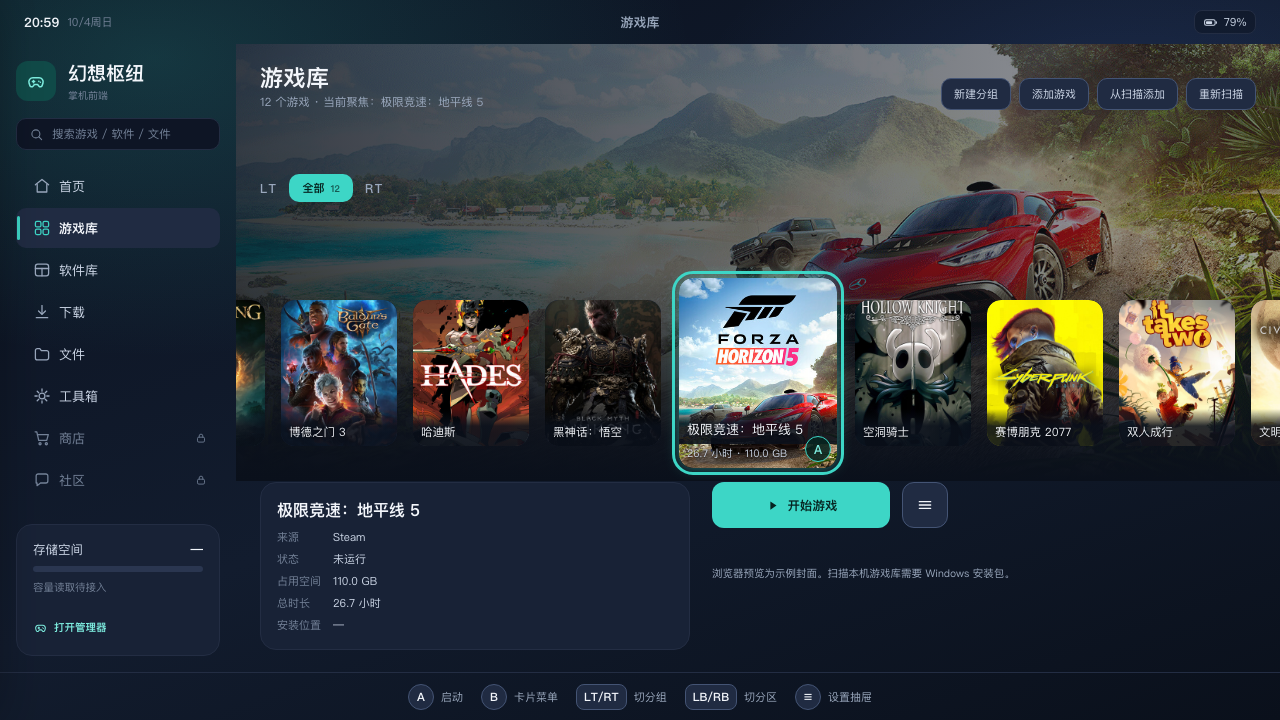
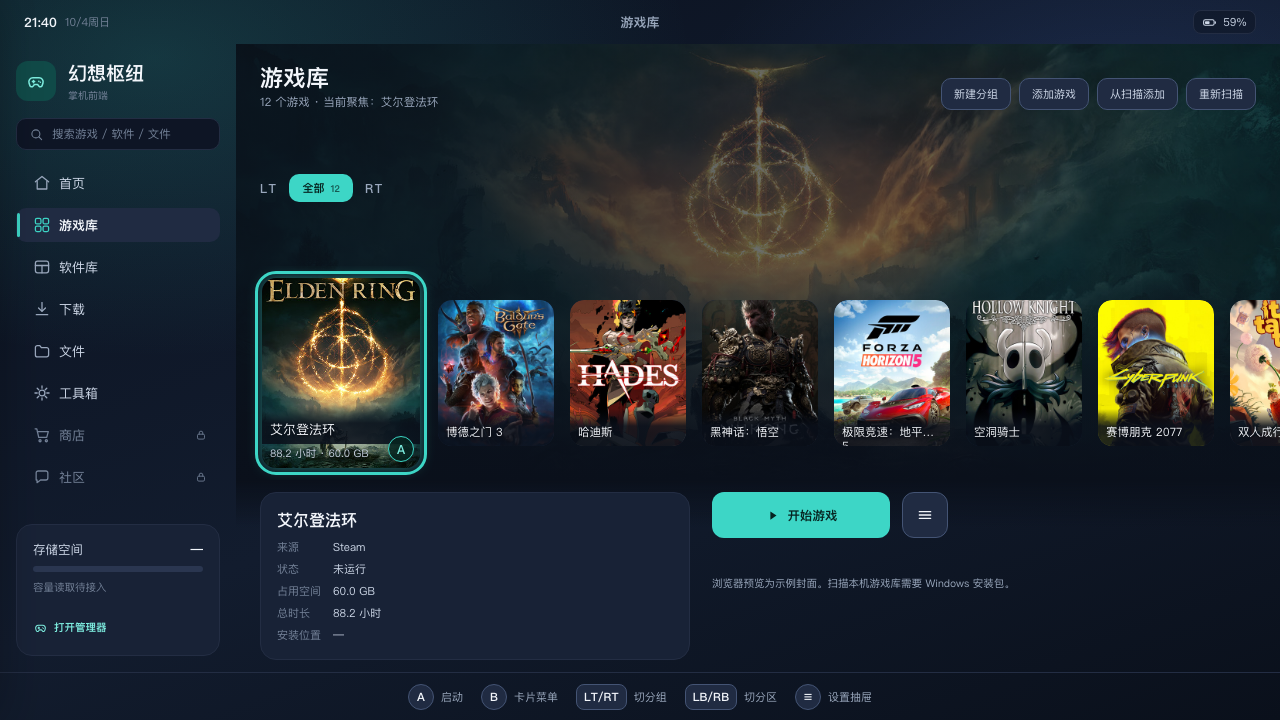
界面大改 M1 修正二：侧栏行距 / 卡片条与面板的距离 / hero 底边（用户第二组截图反馈）
三条都是纯 CSS（Rust 与逻辑一行没动）。用户的窗口是 1493×1225（--dp=1.166），
画板那套固定 dp 坐标只在 1280×720 下等价 —— 三条里两条是「超出画布才看得见」。

图1「没有距离」= 卡片条贴着信息面板：聚焦卡的焦点环画在盒外 7dp，环底落在 475dp，
离画板的面板顶 482dp 只剩 7dp。.k1-foot 的 margin-top 2 → 12dp（面板顶 494dp），
环下留 19dp；720dp 的下限量过：面板高 168dp → 底边 662，提示条 672。

图2「紧紧贴在一起甚至产生了覆盖」= 侧栏行距放不下焦点环：画板的「行高 40、步进 42」
里那 2dp 装不下 7dp 的环，当前页那一行 + 焦点行同时高亮时连成一坨、环还压到下一行的
背景上（用户截的就是 游戏库 / 软件库）。直接把行距加到 8dp 会让 720dp 下侧栏顶出滚动
（8 行只剩 344dp，40×8+8×7=376），所以从行高里让 6dp：--h-rail-row 40 → 34、
.rail-items 的 gap 2 → 8，步进仍是 42dp（--step-rail-row 没改），首行 166dp 与 8 行的
总预算不变。实测两行高亮之间隔 10px、3px 的环正落在中间（改前是 0px）。

图3「整个边没过渡」= hero 底边是 1px 硬边：压暗渐变最后一档是「不透明」的 bg-deep，
把 hero 底边钉死成 #0a101b，而背后那层 160deg 全局渐变只在 1280×720 画布上那一带刚好
同色；用户窗口里页面背景是 #121a2c，于是那一行 RGB 从 (10,16,27) 跳到 (18,28,45)。
在 hero 底下垫一层 .k1-page::after（436dp 起、高 48dp、bg-deep → transparent、不接指针、
层在三个 z-index:1 区块之下）把它化开；画布尺寸下这层与页面同色、看不见。
改后每行落差 ≤ 3，56px 之内平顺收完。

probe-ui.mjs：新增「侧栏当前行与下一行的间距 ≥ 焦点环 7dp」断言（用户图 2 的几何版本），
「信息面板顶边」期望值 482 → 494。自检图 m1-k1-games-1280/1920.png 按新样式重截。

本机验证：npx tsc --noEmit / npm run build / node scripts/audit-ui.mjs（阻塞 0）；
探针在 1493×1225（照用户窗口）+ 1280×720 + 1920×1080 三档全绿，另在 1493×1225 下
逐像素核对了 hero 底边那一段。真机（Windows 掌机）没装过。

diff --git a/src/styles/games.css b/src/styles/games.css
@@ -97,6 +97,26 @@
     );
 }
 
+/* hero 底边再垫一层 bg-deep → 透明的渐变，把那条硬边化开。
+   为什么需要：压暗渐变的最后一档是**不透明**的 bg-deep，等于把 hero 的底边钉死成 #0a101b；
+   而背后是页面自己的背景（global.css 的 160deg 全局渐变），只有在 1280×720 画布上那一带
+   才刚好也是 #0a101b。窗口比 720dp 高的时候（实测用户 1493×1225，--dp=1.166）页面背景
+   在那里是 #121a2c，hero 底边就成了一条 1px 的硬边（用户 2026-10-04 截图：「整个边没过渡」，
+   实测那一行 RGB 从 (10,16,27) 跳到 (18,28,45)）。
+   为什么不用 mask 罩 hero：mask 会把卡条下面那截背景也一起淡掉；这里只补底边这一条，
+   画布尺寸下这层和页面背景同色，等于看不见。z-index 0 + 放在 ::after：盖住 hero、
+   但在 .k1-head / .k1-strip-wrap / .k1-foot（z-index 1）下面。 */
+.k1-page::after {
+  content: "";
+  position: absolute;
+  left: 0;
+  right: 0;
+  top: calc(436 * var(--dp));
+  height: calc(48 * var(--dp));
+  background: linear-gradient(180deg, var(--bg-deep), transparent);
+  pointer-events: none;
+}
+
 
 /* ── 标题行：标题在左、工具栏在右，分组 chip 行在下面 ── */
 .k1-head {
@@ -398,13 +418,17 @@
 }
 
 /* ── 信息面板 + 操作区（画板 y=482 起，面板 430×138，操作区从 x=712 起） ── */
-/* 卡片条盒底 = 158+108+12+190+12 = 480，面板要落在 482，所以这里补 2。 */
+/* 卡片条盒底 = 158+108+12+190+12 = 480，画板的面板落在 482（补 2dp）。这里改成 494：
+   用户 2026-10-04 反馈「没有距离」—— 聚焦卡的焦点环画在盒子外面（4dp 外扩 + 3dp 描边 = 7dp），
+   环的底边落在 475，离画板的 482 只剩 7dp，看着像卡片条和面板贴在一起。往下让 12dp 之后
+   环下面是 19dp，才算有间隔。顶到 720dp 窗口的下限：面板高 168dp，494 + 168 = 662，
+   提示条从 672 起，还剩 10dp。 */
 .k1-foot {
   position: relative;
   z-index: 1;
   display: flex;
   align-items: flex-start;
-  margin-top: calc(2 * var(--dp));
+  margin-top: calc(12 * var(--dp));
   padding: 0 var(--safe);
 }
 

diff --git a/src/styles/tokens.css b/src/styles/tokens.css
@@ -68,7 +68,13 @@
   --h-hintbar: calc(48 * var(--dp));
   --rail-pad: calc(16 * var(--dp));
   --rail-row-w: calc(204 * var(--dp));
-  --h-rail-row: calc(40 * var(--dp));
+  /* 侧栏行高 34 + 行间距 8 = 步进 42（步进没动，和画板一致）。
+     为什么不照画板的「高 40 / 步进 42」：那 2dp 的行间距放不下焦点环（4dp 外扩 + 3dp 描边
+     = 7dp），相邻两行只要同时高亮（当前页那一行 + 焦点停的那一行）就连成一坨、环还压到
+     下一行的背景上（用户 2026-10-04 截图：「紧紧贴在一起甚至产生了覆盖」）。
+     为什么不直接加大行间距（40 + 8 = 步进 48）：720dp 高的窗口里侧栏只剩 344dp 给 8 行，
+     40×8 + 8×7 = 376dp 会顶出滚动。所以从行高里让出这 6dp，步进保持 42。 */
+  --h-rail-row: calc(34 * var(--dp));
   --step-rail-row: calc(42 * var(--dp));
   --h-rail-badge: calc(18 * var(--dp));
   --h-rail-search: calc(32 * var(--dp));

diff --git a/src/styles/shell.css b/src/styles/shell.css
@@ -160,7 +160,9 @@
 .rail-items {
   display: flex;
   flex-direction: column;
-  gap: calc(2 * var(--dp));
+  /* 行间距要容得下焦点环：4dp 外扩 + 3dp 描边 = 7dp，留 1dp 余量（见 tokens.css 的
+     --h-rail-row，行高从 40 让到 34 就是给这 8dp 让的位）。 */
+  gap: calc(8 * var(--dp));
   overflow-y: auto;
   min-height: 0;
   /* 焦点环画在行的盒子外面（4dp 间隔 + 3dp 环 = 7dp），而 overflow 容器按内边距盒裁切 ——

diff --git a/FRONTEND.md b/FRONTEND.md
@@ -20,7 +20,7 @@
 
 M0 定的顺序里的第一页：游戏库换成画板 K1 的横向卡片条。**样式全在新文件 `src/styles/games.css`**，`global.css` 里那套旧 `.library-*` 只被覆盖、没有被改（软件库还走旧网格，K2 才动它）。两条渲染路径靠 `LibraryShelf` 的 `layout="shelf" | "grid"` 分，卡片本身靠 `variant="shelf" | "picker"` 分 —— 选择对话框里还是旧卡片，别把它们一起改。
 
-- **几何**：一律 `calc(N * var(--dp))`，数字取自改造包 §3.1（标题 62 / chip 行 174 / 卡 116×146 在 300、聚焦 158×190 在 278 / 面板 430×138 在 482 / 操作区 x=712 / 主按钮 178×46 / 状态行 566）。画板原文写「放大 1.36×」但 146→190 只有 1.30，**以绝对尺寸为准**（`games.css` 里注明了）。K1 专用的两个时长（180ms 卡片放大、160ms hero 淡入）是 `games.css` 里的局部变量 `--k1-grow` / `--k1-fade`，**不是通用令牌，别挪进 `tokens.css`**；其中 `--k1-fade` 必须和 `LibraryShelf.tsx` 里 `useHeroCrossFade` 的 160ms 一致。
+- **几何**：一律 `calc(N * var(--dp))`，数字取自改造包 §3.1（标题 62 / chip 行 174 / 卡 116×146 在 300、聚焦 158×190 在 278 / 面板 430×138 在 482、面板顶后来按「M1 修正二」挪到 **494** / 操作区 x=712 / 主按钮 178×46 / 状态行 566）。画板原文写「放大 1.36×」但 146→190 只有 1.30，**以绝对尺寸为准**（`games.css` 里注明了）。K1 专用的两个时长（180ms 卡片放大、160ms hero 淡入）是 `games.css` 里的局部变量 `--k1-grow` / `--k1-fade`，**不是通用令牌，别挪进 `tokens.css`**；其中 `--k1-fade` 必须和 `LibraryShelf.tsx` 里 `useHeroCrossFade` 的 160ms 一致。
 - **两个布局坑**（以后加横向滚动页面会再遇到）：① CSS grid 里靠自动排列时，**DOM 顺序决定行**：K1 的分组行夹在标题和工具栏之间，工具栏会被顶到第三行（实测头部高出 50dp）→ 三块都写显式 `grid-area`；② `flex: 1` 的自动最小尺寸是 **min-content**，横向滚动内容的 min-content 会把内容区顶宽（实测 `tab-panel` 从 1044px 顶到 1662px，1280 窗口下整个壳横向溢出）→ `.tab-panel` 与 `.k1-page` / `.k1-strip-wrap` 都补 `min-width: 0`。
 - **焦点域**：卡片条 `data-focus-zone="library-grid"`、分组行 `library-groups`、工具栏 `library-tools`、K1 新增的操作区 `library-actions`。`LibraryShelf` 那个「自动把焦点安顿到第一张卡」的 effect 只认这三个旧域 —— 加新区块时**必须一起加进它的白名单**，否则操作区里的按钮会被反复抢走焦点（按不动）。上下跨域、左右域内走的规则没改。
 - **hero 的图从哪来由页面定**（`renderHero`），`LibraryShelf` 只负责换图时的交叉淡入与压暗；页面侧的回退链是 Steam 宽图 → 本地封面 → 渐变占位。宽图没有本地缓存（`cache_covers` 只存 600×900 竖封面），断网时自动退回封面。
@@ -39,9 +39,19 @@ M0 定的顺序里的第一页：游戏库换成画板 K1 的横向卡片条。*
 
 三条都改完了，**Rust 一行没动**；改完先在 1280×720 与 1920×1080 下重量过再重截的自检图。
 
-- **hero 的盒子比卡片条短**：画板把 hero 画到 y=440（396dp），而聚焦卡底边在 468 —— 卡片下缘探出大图 28dp；更要紧的是纵向压暗在 440 处只到 0.894 不透明，**亮色宽图会留一条齐刷刷的硬边**（像素实测：改前 y=436→437 一行亮度掉 41，改后那一带每行落差都在 3 以内）。现在 hero 铺到卡片条那个盒子的底边（480 → 437dp；多出的 1dp 是给 1080p 下 `--dp=1.5` 攒出来的亚像素零头，hero 从顶栏量起、不跟着漂），纵向压暗改成三段 `268→0 / 440→0.894 / 480→1`：图在卡片那一带就化进背景，盒底正好收干净。**卡片条的坐标一个没动**（卡条盒 266..480、聚焦卡 278..468、面板 482 仍是画板值），只有 hero 与压暗层变高。
+- **hero 的盒子比卡片条短**：画板把 hero 画到 y=440（396dp），而聚焦卡底边在 468 —— 卡片下缘探出大图 28dp；更要紧的是纵向压暗在 440 处只到 0.894 不透明，**亮色宽图会留一条齐刷刷的硬边**（像素实测：改前 y=436→437 一行亮度掉 41，改后那一带每行落差都在 3 以内）。现在 hero 铺到卡片条那个盒子的底边（480 → 437dp；多出的 1dp 是给 1080p 下 `--dp=1.5` 攒出来的亚像素零头，hero 从顶栏量起、不跟着漂），纵向压暗改成三段 `268→0 / 440→0.894 / 480→1`：图在卡片那一带就化进背景，盒底正好收干净。**卡片条的坐标一个没动**（卡条盒 266..480、聚焦卡 278..468；面板按画板是 482，后来按「M1 修正二」挪到 494），只有 hero 与压暗层变高。
 - **焦点环外扩 7dp，别让 overflow 容器吃掉**：`--focus-offset`(4) + `--focus-stroke`(3) = 环画在盒子**外** 7dp，而 `overflow` 是按**内边距盒**裁的。侧栏那一列（`.rail-items`）内边距原先是 0 → 环的左右两边和首尾行的上下全被切（用户图 2 报的就是这个）。修法是「补内边距 + 同值负外边距」：盒子大一圈把环装进去，内容的位置、宽度、列间距一个像素不变。同类修了两处：`.group-strip-scroll`（分组 chip 行，原来只有 2px；它把行高从 32 收成 28，K1 在 `.k1-strip-wrap` 的 margin-top 里补回 4dp）、`.drawer .settings-body`（设置抽屉满宽行，**只补左右** —— 它是 `flex: 1` 的滚动体，加纵向内边距会把盒子撑出抽屉 7dp，透明那一条会盖住页脚点击）。**以后加滚动容器照这个套路**；`.library-grid`（旧网格：软件库 / 文件页网格）和文件页的 `.file-list`、顶部按钮行仍会裁，跟着 M2 / M3 一起改（自动巡检脚本已经能报出来）。
 - **左右键现在会跨域**（原来的规则是「左右在域内走」）：`moveDirectionalFocus` 的 `dx` 走三步 —— ① 同域、**同一行**的几何邻居（卡片条 / chip 行 / 工具栏 / 文件网格同一行都走这条，数值上跟原来一致）；② 到边界就跨域，候选按「先只留当前选中项（`.is-current` / `[aria-selected]`）→ 其中优先本域里上次停过的那一项（`lastInZone`）→ 再按同一行横向距离 → 再按垂直中心距离」逐级收窄 —— 从侧栏按右回内容区落回**刚才那张卡**，从卡片条按左进侧栏落在**当前页那一行**；③ 兜底只在多列域保留旧的池顺序（文件网格换行），单列域（侧栏）左右不动 —— 旧行为「在侧栏按右 = 焦点往下跳一行」正是用户实测报上来的那条。`dy` 一个字没改。**「上次停过的那一项」只在过滤过一轮的候选里挑**，不是全局覆盖几何：不然从操作区按左会跑到侧栏最上面那行去。
+
+## 未发布：界面大改 M1 修正二（侧栏行距 / 卡片条—面板的距离 / hero 底边，2026-10-04，用户截图反馈）
+
+用户第二轮的图还是「画个框指哪儿丑」，三条全是间距与边，**Rust 与功能一行没动**。这一轮的教训：**画板的固定坐标只在 1280×720 下成立** —— 用户的窗口是 1493×1225（`--dp=1.166`），三个问题里有两个是「超出画布尺寸才看得见」的。
+
+- **图 1「没有距离」= 卡片条贴着信息面板**：聚焦卡的焦点环画在盒子外面（`--focus-offset` 4 + `--focus-stroke` 3 = 7dp），环的底边落在 475dp，离画板的 482dp 只剩 **7dp**。`.k1-foot` 的 `margin-top` 由 2dp 改成 **12dp**（面板顶 494dp），环下面是 19dp。顶到 720dp 的下限也量过：面板高 168dp，494 + 168 = **662**，提示条从 672 起，还剩 10dp（1280×720 实测 659 vs 672；1080p 985 vs 1008）。`probe-ui.mjs` 里「信息面板顶边」的期望值跟着从 482 改成 494。
+- **图 2「紧紧贴在一起甚至产生了覆盖」= 侧栏行距放不下焦点环**：画板写「行高 40、步进 42」，那 2dp 的行间距装不下 7dp 的环 —— 当前页那一行与焦点停的那一行**同时高亮时会连成一坨**，环还压到下一行的背景上（用户截的就是 游戏库 / 软件库 这两行）。直接加大行距不行：720dp 高的窗口里侧栏只剩 **344dp** 给 8 行，40×8 + 8×7 = 376dp 会顶出滚动。所以从行高里让 6dp：`--h-rail-row` **40 → 34**、`.rail-items` 的 `gap` **2 → 8**，**步进仍是 42dp**（`--step-rail-row` 不用改），8 行的高度预算与首行位置全都不变（`166dp` 那条断言原样过）。实测两行高亮之间隔 10px、3px 的环正落在中间（改之前是 0px）。
+- **图 3「整个边没过渡」= hero 底边是 1px 硬边**：压暗渐变的最后一档是**不透明**的 `bg-deep`，等于把 hero 的底边钉死成 `#0a101b`；而背后是 `global.css` 那层 160deg 全局渐变，**只有在 1280×720 画布上那一带才刚好也是 `#0a101b`**。用户窗口里页面背景在那里是 `#121a2c`，hero 底边就成了一条硬边（实测那一行 RGB 从 `(10,16,27)` 跳到 `(18,28,45)`）。修法是在 hero 底下垫一层 `.k1-page::after`（`top: 436dp`、高 48dp、`bg-deep → transparent`、`pointer-events: none`，层在 `.k1-head` / `.k1-strip-wrap` / `.k1-foot` 的 `z-index: 1` 之下）—— 只补底边这一条，卡片条一个数没动；画布尺寸下这层与页面背景同色、等于看不见。改后实测每行落差 ≤ 3（原来单行 15），从 hero 底边起 56px 之内平顺收完。**以后再有「图/底色压暗到某个固定坐标」的写法，都要想到这一条**。
+- **`probe-ui.mjs` 新增一条断言**：侧栏「当前行与其下一行之间的间距 ≥ 焦点环的 7dp」。这是用户图 2 那条的几何版本，比肉眼可靠 —— 以后谁把行高/行距改回去它就会红。
+- **本机验证**：`npx tsc --noEmit` / `npm run build` / `node scripts/audit-ui.mjs`（阻塞项 0；`games.css` / `shell.css` / `tokens.css` 都没有新增「待迁移」条目）；探针在 **1493×1225（照用户窗口尺寸）+ 1280×720 + 1920×1080** 三档全绿（含新断言），并在 1493×1225 下逐像素量了 hero 底边那一段。**没做的**：真机（Windows 掌机）没装过；这一轮是纯 CSS，Rust 与逻辑零改动。
 
 ## 0.1.58（一）：小组件删掉「自启」行；设置页那行改名「安装前端」（2026-10-04，已随 `v0.1.58` 发布）
 
